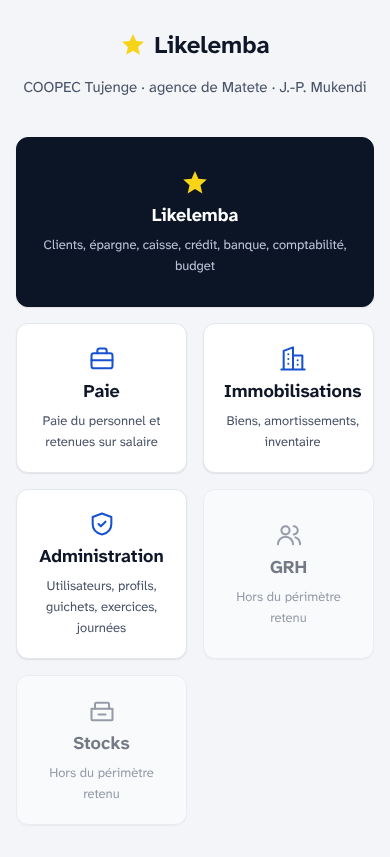
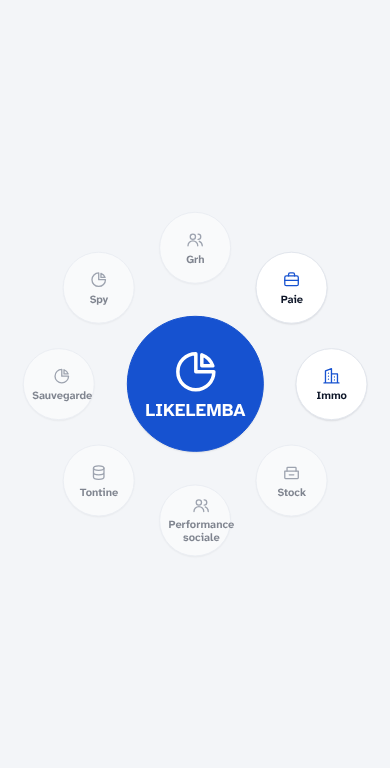
Connexion et page des modules à l'identique de Microfina++
Connexion : bandeau vertical au nom du logiciel, nom d'utilisateur, mot de
passe (non exigé pour l'instant), journée ouverte, date système, serveur,
Connexion ; rien d'autre (manuel, p. 5). Page des modules : une boule au
centre, huit autour dans l'ordre de la figure 2 (p. 6).

Claude-Session: https://claude.ai/code/session_01Lyqxe8WXbTd3Zan5eB2gyP

diff --git a/web/src/app.css b/web/src/app.css
@@ -57,7 +57,7 @@ a { color: var(--tampon); text-underline-offset: 3px; }
 @media (hover: hover) and (pointer: fine) { .acces-rapide a:hover { background: var(--papier); } }
 .acces-rapide a.active { background: var(--tampon-pale); color: var(--tampon); font-weight: 600; }
 .acces-rapide a.a-construire { color: var(--encre-2); }
-.zone-vide { margin: 0; padding: var(--espace-8) var(--espace-4); text-align: center; color: var(--encre-2); border: 1px dashed var(--trait); border-radius: var(--rayon-bloc); background: var(--feuille); }
+.zone-vide { min-height: 60vh; border: 1px solid var(--trait); border-radius: var(--rayon-bloc); background: var(--feuille); }
 
 .pied {
   display: flex; flex-wrap: wrap; gap: var(--espace-1) var(--espace-6); align-items: center;
@@ -67,24 +67,27 @@ a { color: var(--tampon); text-underline-offset: 3px; }
 .pied strong { color: var(--encre); font-weight: 600; }
 .pied .muet { margin-left: auto; }
 
-/* ---------- Page des modules (manuel Microfina++, p. 6) ---------- */
-.page-modules { min-height: 100vh; display: grid; align-content: center; justify-items: center; gap: var(--espace-6); padding: var(--espace-7) var(--espace-4); background: var(--papier); }
-.page-modules header { text-align: center; display: grid; gap: var(--espace-1); }
-.logo-modules { display: inline-flex; align-items: center; justify-content: center; gap: var(--espace-2); margin: 0; font-size: var(--taille-grand); font-weight: 700; color: var(--encre); }
-.tuiles { display: grid; grid-template-columns: repeat(3, minmax(0, 220px)); gap: var(--espace-4); }
-.tuile {
-  display: grid; justify-items: center; align-content: center; gap: var(--espace-2); text-align: center; min-height: 150px;
-  padding: var(--espace-5); background: var(--feuille); border: 1px solid var(--trait); border-radius: var(--rayon-bloc); box-shadow: var(--ombre-surface);
-  color: var(--encre); text-decoration: none;
+/* ---------- Page des modules (manuel Microfina++, p. 6, figure 2) : une boule au centre, huit autour ---------- */
+.page-modules { min-height: 100vh; display: grid; place-items: center; padding: var(--espace-6) var(--mise-gouttiere-mobile); background: var(--papier); }
+.orbite { --cote: min(92vw, 600px); --rayon: calc(var(--cote) * 0.38); position: relative; width: var(--cote); height: var(--cote); }
+.boule {
+  --taille: calc(var(--cote) * 0.2);
+  position: absolute; left: 50%; top: 50%; width: var(--taille); height: var(--taille);
+  transform: translate(-50%, -50%) rotate(var(--angle)) translateY(calc(-1 * var(--rayon))) rotate(calc(-1 * var(--angle)));
+  display: grid; place-items: center; align-content: center; gap: 4px; text-align: center;
+  border-radius: var(--rayon-rond); background: var(--feuille); border: 1px solid var(--trait); box-shadow: var(--ombre-surface);
+  color: var(--encre); text-decoration: none; font-size: var(--taille-dense); font-weight: 700; padding: var(--espace-2); line-height: 1.15;
 }
-.tuile svg { width: 28px; height: 28px; color: var(--tampon); }
-.tuile strong { font-size: var(--taille-titre); }
-.tuile span { font-size: var(--taille-dense); color: var(--encre-2); }
-@media (hover: hover) and (pointer: fine) { a.tuile:hover { border-color: var(--tampon); } }
-.tuile.principale { grid-column: 1 / -1; justify-self: center; width: min(100%, 460px); background: var(--nuit); border-color: var(--nuit); color: var(--nuit-fort); min-height: 170px; }
-.tuile.principale span { color: var(--nuit-texte); }
-.tuile.inactive { opacity: .55; cursor: not-allowed; }
-.tuile.inactive svg { color: var(--encre-2); }
+.boule svg { width: 26px; height: 26px; color: var(--tampon); }
+.boule.centre {
+  --taille: calc(var(--cote) * 0.38); transform: translate(-50%, -50%);
+  background: var(--tampon); border-color: var(--tampon); color: var(--sur-tampon); font-size: var(--taille-titre);
+}
+.boule.centre svg { width: 48px; height: 48px; color: var(--sur-tampon); }
+@media (hover: hover) and (pointer: fine) { a.boule:not(.centre):hover { border-color: var(--tampon); } a.boule.centre:hover { background: var(--encre); border-color: var(--encre); } }
+.boule.inactive { opacity: .5; cursor: not-allowed; }
+.boule.inactive svg { color: var(--encre-2); }
+@media (max-width: 480px) { .boule:not(.centre) span { font-size: 11px; } .boule:not(.centre) svg { width: 18px; height: 18px; } }
 
 /* ---------- Page ---------- */
 .page { padding: var(--espace-6); min-width: 0; display: grid; gap: var(--espace-5); align-content: start; max-width: var(--mise-contenu-max); width: 100%; }
@@ -120,11 +123,15 @@ fieldset.formulaire { padding-bottom: var(--espace-2); }
 .resultat-ok { display: flex; gap: var(--espace-2); align-items: baseline; background: var(--sain-pale); color: var(--encre); padding: var(--espace-3) var(--espace-4); border-radius: var(--rayon-champ); margin: 0; }
 .resultat-ok::before { content: "✓"; color: var(--sain-texte); font-weight: 700; }
 
-/* ---------- Connexion (manuel Microfina++, p. 5) ---------- */
-.connexion { min-height: 100vh; display: grid; place-items: center; padding: var(--espace-6) var(--mise-gouttiere-mobile); background: var(--nuit); }
-.carte-connexion { width: 100%; max-width: var(--mise-carte-etroite); display: grid; gap: var(--espace-4); padding: var(--espace-6); background: var(--feuille); border-radius: var(--rayon-bloc); box-shadow: var(--ombre-flottant); }
-.carte-connexion .logo-modules { justify-content: flex-start; }
-.carte-connexion ul { margin: var(--espace-1) 0; padding-left: var(--espace-4); display: grid; gap: 2px; }
+/* ---------- Connexion (manuel Microfina++, p. 5) : bandeau vertical au nom du logiciel, champs, bouton ---------- */
+.connexion { min-height: 100vh; display: grid; place-items: center; padding: var(--espace-6) var(--mise-gouttiere-mobile); background: var(--papier); }
+.carte-connexion {
+  width: 100%; max-width: 560px; display: grid; grid-template-columns: 56px minmax(0, 1fr);
+  background: var(--feuille); border: 1px solid var(--trait); border-radius: var(--rayon-bloc); box-shadow: var(--ombre-surface); overflow: hidden;
+}
+.bandeau-nom { background: var(--tampon); color: var(--sur-tampon); display: grid; align-content: center; justify-items: center; gap: 2px; padding: var(--espace-4) 0; font-size: var(--taille-grand); font-weight: 700; line-height: 1; }
+.champs-connexion { display: grid; gap: var(--espace-3); padding: var(--espace-5); }
+.serveur { margin: 0; font-size: var(--taille-dense); color: var(--encre-2); }
 
 /* Valeur d'exemple ou à confirmer */
 .exemple { font-size: var(--taille-dense); color: var(--encre-2); font-style: italic; }
@@ -142,7 +149,6 @@ fieldset.formulaire { padding-bottom: var(--espace-2); }
   .acces-rapide details:not([open]) { display: none; }
   .page { padding: var(--espace-4) var(--mise-gouttiere-mobile); }
   .deux-colonnes { grid-template-columns: minmax(0, 1fr); }
-  .tuiles { grid-template-columns: repeat(2, minmax(0, 1fr)); }
   .pied .muet { margin-left: 0; }
 }
 

diff --git a/web/src/ecrans/Connexion.tsx b/web/src/ecrans/Connexion.tsx
@@ -1,21 +1,18 @@
 import { useState } from "react";
 import { useLocation, useNavigate } from "react-router-dom";
-import { api, LIBELLES_ROLES, reinitialiser } from "../donnees/api";
+import { api } from "../donnees/api";
 import { useDonnees, message } from "../lib/useDonnees";
 import { fr } from "../lib/dates";
 import { Bloquant } from "../composants";
-import { Etoile } from "../mise-en-page/icones";
 
-// S01, sur le modèle de la page de connexion de Microfina++ (manuel, p. 5) : nom d'utilisateur, mot de passe,
-// journée ouverte et date système en lecture seule, serveur, bouton Connexion.
-// Démonstration : le mot de passe n'est pas vérifié. Le vrai écran aura mot de passe, TOTP pour les profils
-// sensibles et verrouillage (Instr. BCC 008, art. 16 ; ARCHITECTURE § 8).
+// S01, comme la page de connexion de Microfina++ (manuel, p. 5) : bandeau vertical au nom du logiciel,
+// nom d'utilisateur, mot de passe, journée ouverte et date système en lecture seule, serveur, Connexion.
+// Pour l'instant, aucun mot de passe n'est exigé (décision du porteur, 05/11/2026).
 export default function Connexion() {
   const nav = useNavigate();
   const { state } = useLocation() as { state?: { apres?: string } };
   const { donnees } = useDonnees(async () => ({ users: await api.session.utilisateurs(), j: await api.journees.courante() }));
   const [login, setLogin] = useState("");
-  const [mdp, setMdp] = useState("");
   const [erreur, setErreur] = useState("");
   const aujourdhui = new Date().toISOString().slice(0, 10);
 
@@ -27,34 +24,32 @@ export default function Connexion() {
   return (
     <main className="connexion">
       <form className="carte-connexion" onSubmit={entrer}>
-        <p className="logo-modules"><Etoile taille={26} /> Likelemba</p>
-        <div className="champ">
-          <label htmlFor="login">Nom d'utilisateur</label>
-          <input id="login" className="saisie" autoComplete="username" autoFocus value={login} onChange={(e) => setLogin(e.target.value)} />
-        </div>
-        <div className="champ">
-          <label htmlFor="mdp">Mot de passe</label>
-          <input id="mdp" className="saisie" type="password" autoComplete="current-password" value={mdp} onChange={(e) => setMdp(e.target.value)} />
-        </div>
-        <div className="deux-colonnes">
+        <div className="bandeau-nom" aria-hidden="true">{"likelemba".split("").map((l, i) => <span key={i}>{l}</span>)}</div>
+        <h1 className="sr-only">Likelemba, connexion</h1>
+        <div className="champs-connexion">
           <div className="champ">
-            <label htmlFor="journee">Journée ouverte</label>
-            <input id="journee" className="saisie num" readOnly value={donnees?.j && donnees.j.statut === "ouverte" ? fr(donnees.j.date) : "aucune"} />
+            <label htmlFor="login">Nom d'utilisateur :</label>
+            <input id="login" className="saisie" autoComplete="username" autoFocus list="utilisateurs" value={login} onChange={(e) => setLogin(e.target.value)} />
+            <datalist id="utilisateurs">{donnees?.users.map((u) => <option key={u.id} value={u.login}>{u.nom}</option>)}</datalist>
           </div>
           <div className="champ">
-            <label htmlFor="date-systeme">Date système</label>
-            <input id="date-systeme" className="saisie num" readOnly value={fr(aujourdhui)} />
+            <label htmlFor="mdp">Mot de passe :</label>
+            <input id="mdp" className="saisie" type="password" autoComplete="off" />
           </div>
+          <div className="deux-colonnes">
+            <div className="champ">
+              <label htmlFor="journee">Journée ouverte :</label>
+              <input id="journee" className="saisie" readOnly value={donnees?.j && donnees.j.statut === "ouverte" ? fr(donnees.j.date) : ""} />
+            </div>
+            <div className="champ">
+              <label htmlFor="date-systeme">Date système :</label>
+              <input id="date-systeme" className="saisie" readOnly value={fr(aujourdhui)} />
+            </div>
+          </div>
+          <p className="serveur">Serveur : {location.host || "local"}</p>
+          <Bloquant titre="">{erreur}</Bloquant>
+          <div className="a-droite"><button className="bouton" type="submit" disabled={!login.trim()}>Connexion</button></div>
         </div>
-        <p className="aide">Serveur : démonstration, dans ce navigateur</p>
-        <Bloquant titre="">{erreur}</Bloquant>
-        <button className="bouton grand" type="submit" disabled={!login.trim()}>Connexion</button>
-        <details className="textes" open>
-          <summary>Démonstration</summary>
-          <p className="aide">Mot de passe non vérifié, données fictives. Identifiants :</p>
-          <ul>{donnees?.users.map((u) => <li key={u.id}><span className="chiffres">{u.login}</span> : {u.nom}, {u.roles.map((r) => LIBELLES_ROLES[r]).join(", ")}</li>)}</ul>
-          <button className="bouton discret" type="button" onClick={() => { reinitialiser(); setErreur(""); }}>Remettre la démonstration à zéro</button>
-        </details>
       </form>
     </main>
   );

diff --git a/web/src/ecrans/Accueil.tsx b/web/src/ecrans/Accueil.tsx
@@ -1,34 +1,35 @@
-import { Link, useNavigate } from "react-router-dom";
+import { Link, Navigate } from "react-router-dom";
 import { api } from "../donnees/api";
 import { useDonnees } from "../lib/useDonnees";
-import { APPLICATIONS } from "./registre";
-import { Etoile, ICONES } from "../mise-en-page/icones";
+import { ICONES } from "../mise-en-page/icones";
 
-/** S02 : page des modules, juste après la connexion (manuel, p. 6). Le module principal au centre. */
+// S02 : page des modules, comme dans Microfina++ (manuel, p. 6, figure 2) :
+// le module principal dans la grande boule du centre, huit modules autour, dans le même ordre.
+const AUTOUR: { libelle: string; chemin?: string; icone: React.ReactNode }[] = [
+  { libelle: "Grh", icone: ICONES.clients },
+  { libelle: "Paie", chemin: "/paie", icone: ICONES.paie },
+  { libelle: "Immo", chemin: "/immobilisations", icone: ICONES.immobilisations },
+  { libelle: "Stock", icone: ICONES.caisse },
+  { libelle: "Performance sociale", icone: ICONES.clients },
+  { libelle: "Tontine", icone: ICONES.parts },
+  { libelle: "Sauvegarde", icone: ICONES.budget },
+  { libelle: "Spy", icone: ICONES.budget },
+];
+
 export function PageModules() {
-  const nav = useNavigate();
-  const { donnees } = useDonnees(async () => ({ u: await api.session.courante(), ctx: await api.referentiel.contexte() }));
-  if (donnees && !donnees.u) { nav("/connexion"); return null; }
-  const [principal, ...autres] = APPLICATIONS;
-  const icone = (id: string) => ({ paie: ICONES.paie, immobilisations: ICONES.immobilisations, administration: ICONES.administration, grh: ICONES.clients, stocks: ICONES.caisse } as Record<string, React.ReactNode>)[id];
+  const { donnees } = useDonnees(() => api.session.courante());
+  if (donnees === null) return <Navigate to="/connexion" replace />;
   return (
     <main className="page-modules">
-      <header>
-        <p className="logo-modules"><Etoile taille={26} /> Likelemba</p>
-        <p className="muet">{donnees?.ctx.institution.nom} · agence de {donnees?.ctx.agence.nom} · {donnees?.u?.nom}</p>
-      </header>
       <h1 className="sr-only">Modules</h1>
-      <div className="tuiles">
-        <Link to={principal!.chemin!} className="tuile principale">
-          <Etoile taille={40} />
-          <strong>{principal!.libelle}</strong>
-          <span>{principal!.but}</span>
-        </Link>
-        {autres.map((a) => a.chemin ? (
-          <Link key={a.id} to={a.chemin} className="tuile">{icone(a.id)}<strong>{a.libelle}</strong><span>{a.but}</span></Link>
-        ) : (
-          <span key={a.id} className="tuile inactive" aria-disabled="true">{icone(a.id)}<strong>{a.libelle}</strong><span>{a.but}</span></span>
-        ))}
+      <div className="orbite">
+        <Link to="/principal" className="boule centre">{ICONES.budget}<span>LIKELEMBA</span></Link>
+        {AUTOUR.map((m, i) => {
+          const style = { "--angle": `${i * 45}deg` } as React.CSSProperties;
+          return m.chemin
+            ? <Link key={m.libelle} to={m.chemin} className="boule" style={style}>{m.icone}<span>{m.libelle}</span></Link>
+            : <span key={m.libelle} className="boule inactive" style={style} aria-disabled="true" title="Pas encore construit">{m.icone}<span>{m.libelle}</span></span>;
+        })}
       </div>
     </main>
   );
@@ -36,5 +37,5 @@ export function PageModules() {
 
 /** Page du menu général : la zone de travail est vide tant qu'aucun écran n'est choisi (manuel, p. 13) */
 export function AccueilModule() {
-  return <p className="zone-vide">Choisissez un écran dans la barre de menus ou dans l'accès rapide.</p>;
+  return <div className="zone-vide" aria-label="Zone de travail" />;
 }
